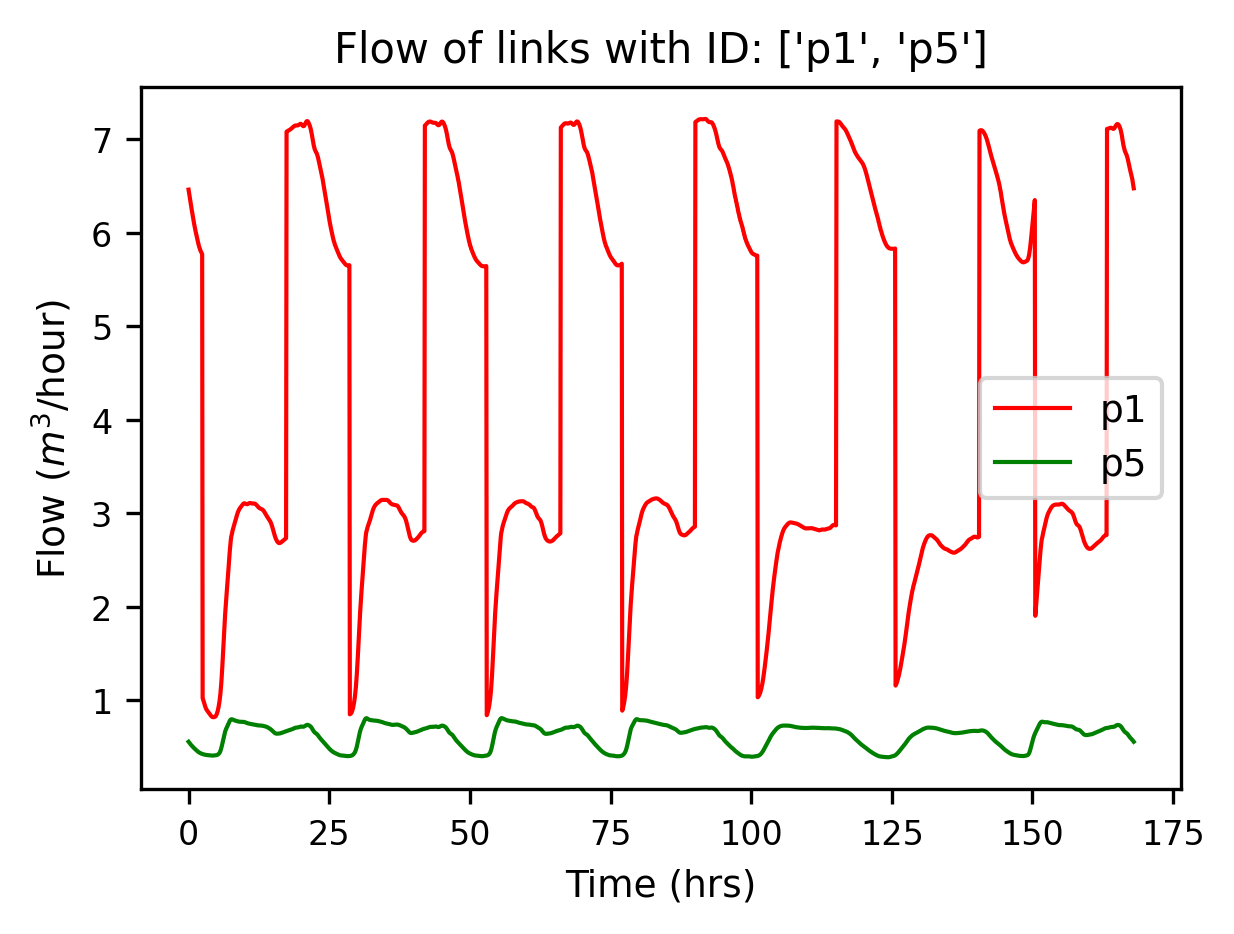
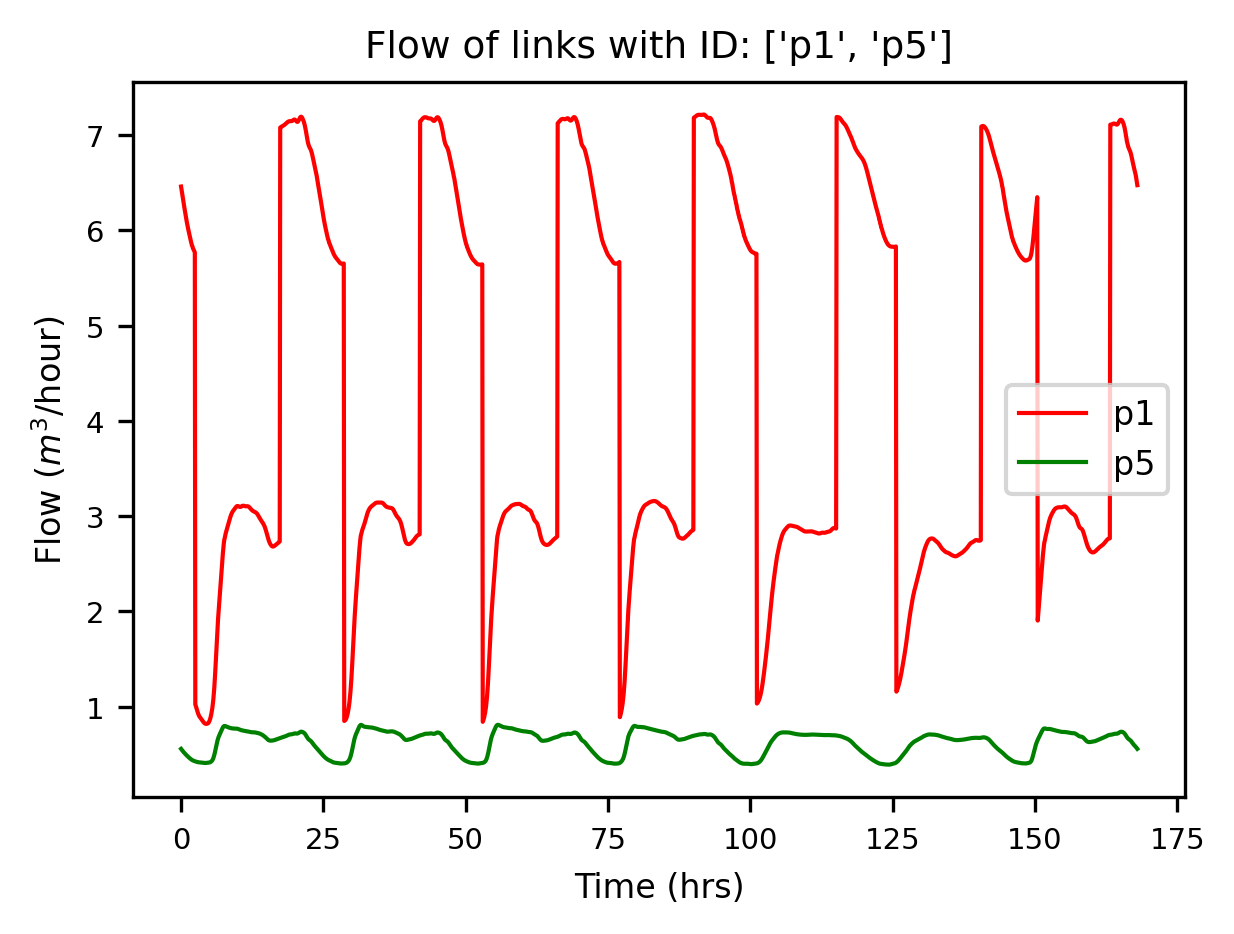
update fonts

Changed region(s): [[0.0308, 0.031, 0.9854, 0.9625], [0.7083, 0.2484, 0.7391, 0.2794]]

diff --git a/paper/joss_paper.py b/paper/joss_paper.py
@@ -25,4 +25,4 @@ link_names = G.getLinkNameID(link_indices)  # get the ID of the link indices
 
 G.plot_ts(X=hrs_time, Y=R.Flow[:, link_indices], title=f'Flow of links with ID: {link_names}', figure_size=[4, 3],
           legend_location='best', xlabel='Time (hrs)', ylabel=f'Flow ($m^3$/hour)', marker=None, color=['r', 'g'],
-          fontsize=9, fontsize_title=10, labels=link_names, save_fig=True, filename='figures/paper_flows')
+          fontsize=8, fontsize_title=9, labels=link_names, save_fig=True, filename='figures/paper_flows')
